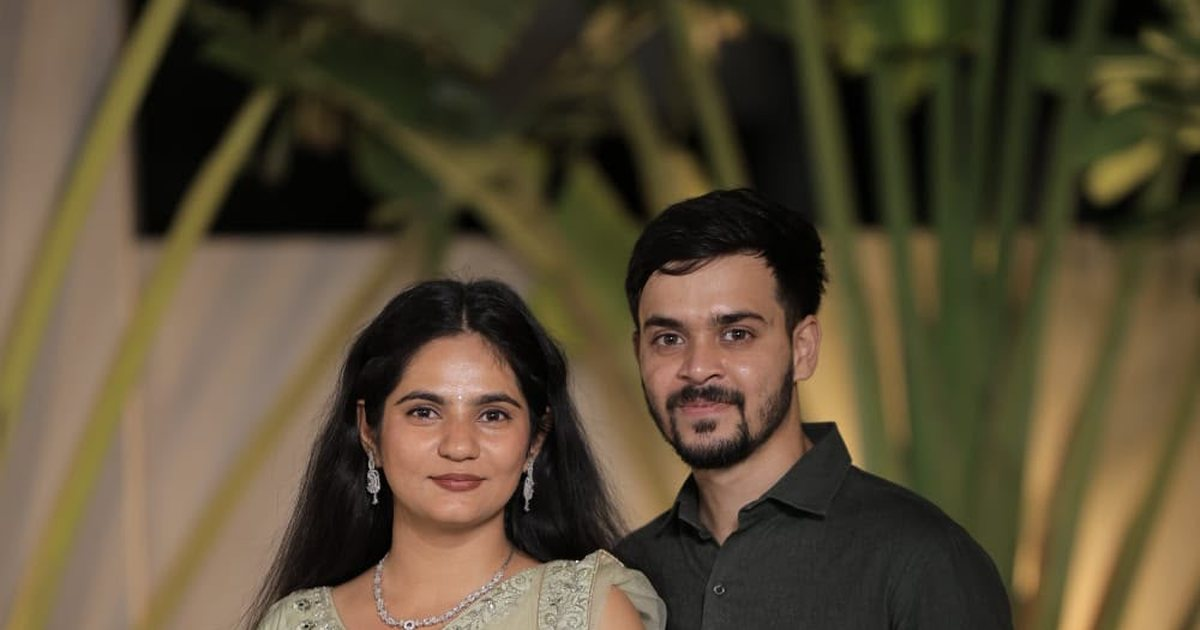
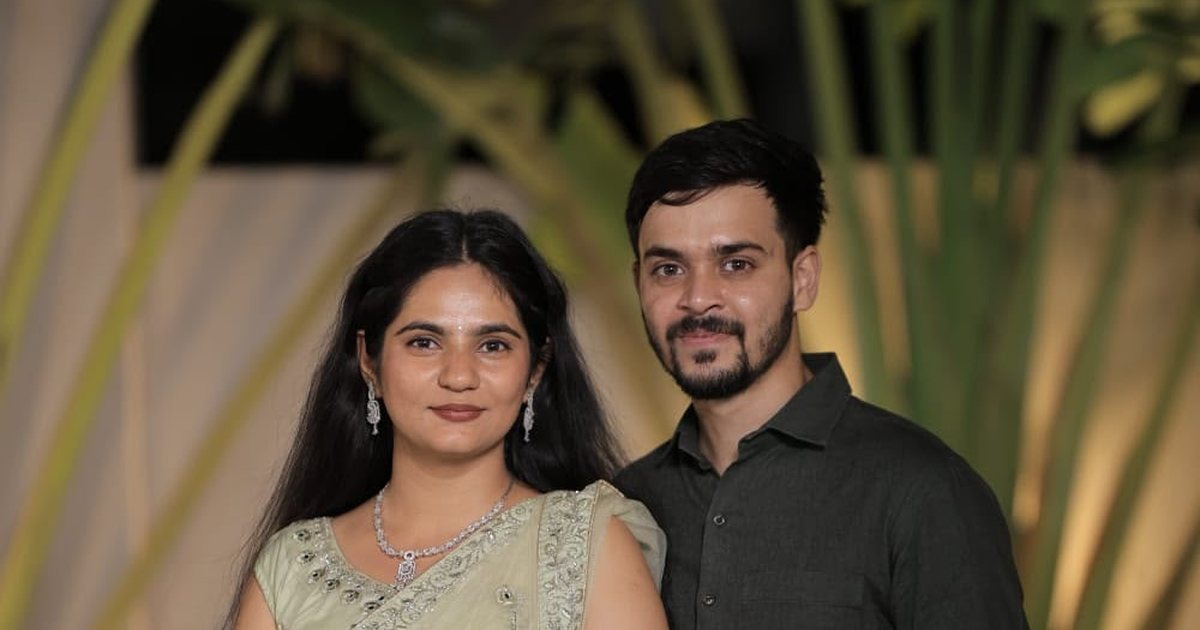
Share image: recrop so faces sit in the centre
Claude-Session: https://claude.ai/code/session_01RSo1H9bBE8TZar5Yv6su8w

diff --git a/index.html b/index.html
@@ -9,14 +9,14 @@
 <meta property="og:title" content="Tejaswini &amp; Aviral · Wedding Invitation">
 <meta property="og:description" content="1 January 2027 · Nagpur, Maharashtra. Tap to open your invitation.">
 <meta property="og:url" content="https://gitofprashant.github.io/wedding-invite/">
-<meta property="og:image" content="https://gitofprashant.github.io/wedding-invite/assets/img/share-couple.jpg">
-<meta property="og:image:secure_url" content="https://gitofprashant.github.io/wedding-invite/assets/img/share-couple.jpg">
+<meta property="og:image" content="https://gitofprashant.github.io/wedding-invite/assets/img/share-couple.jpg?v=2">
+<meta property="og:image:secure_url" content="https://gitofprashant.github.io/wedding-invite/assets/img/share-couple.jpg?v=2">
 <meta property="og:image:type" content="image/jpeg">
 <meta property="og:image:width" content="1200">
 <meta property="og:image:height" content="630">
 <meta property="og:image:alt" content="Tejaswini and Aviral">
 <meta name="twitter:card" content="summary_large_image">
-<meta name="twitter:image" content="https://gitofprashant.github.io/wedding-invite/assets/img/share-couple.jpg">
+<meta name="twitter:image" content="https://gitofprashant.github.io/wedding-invite/assets/img/share-couple.jpg?v=2">
 <link rel="icon" href="assets/img/seal-icon.png">
 <link rel="apple-touch-icon" href="assets/img/seal-icon.png">
 <style>
